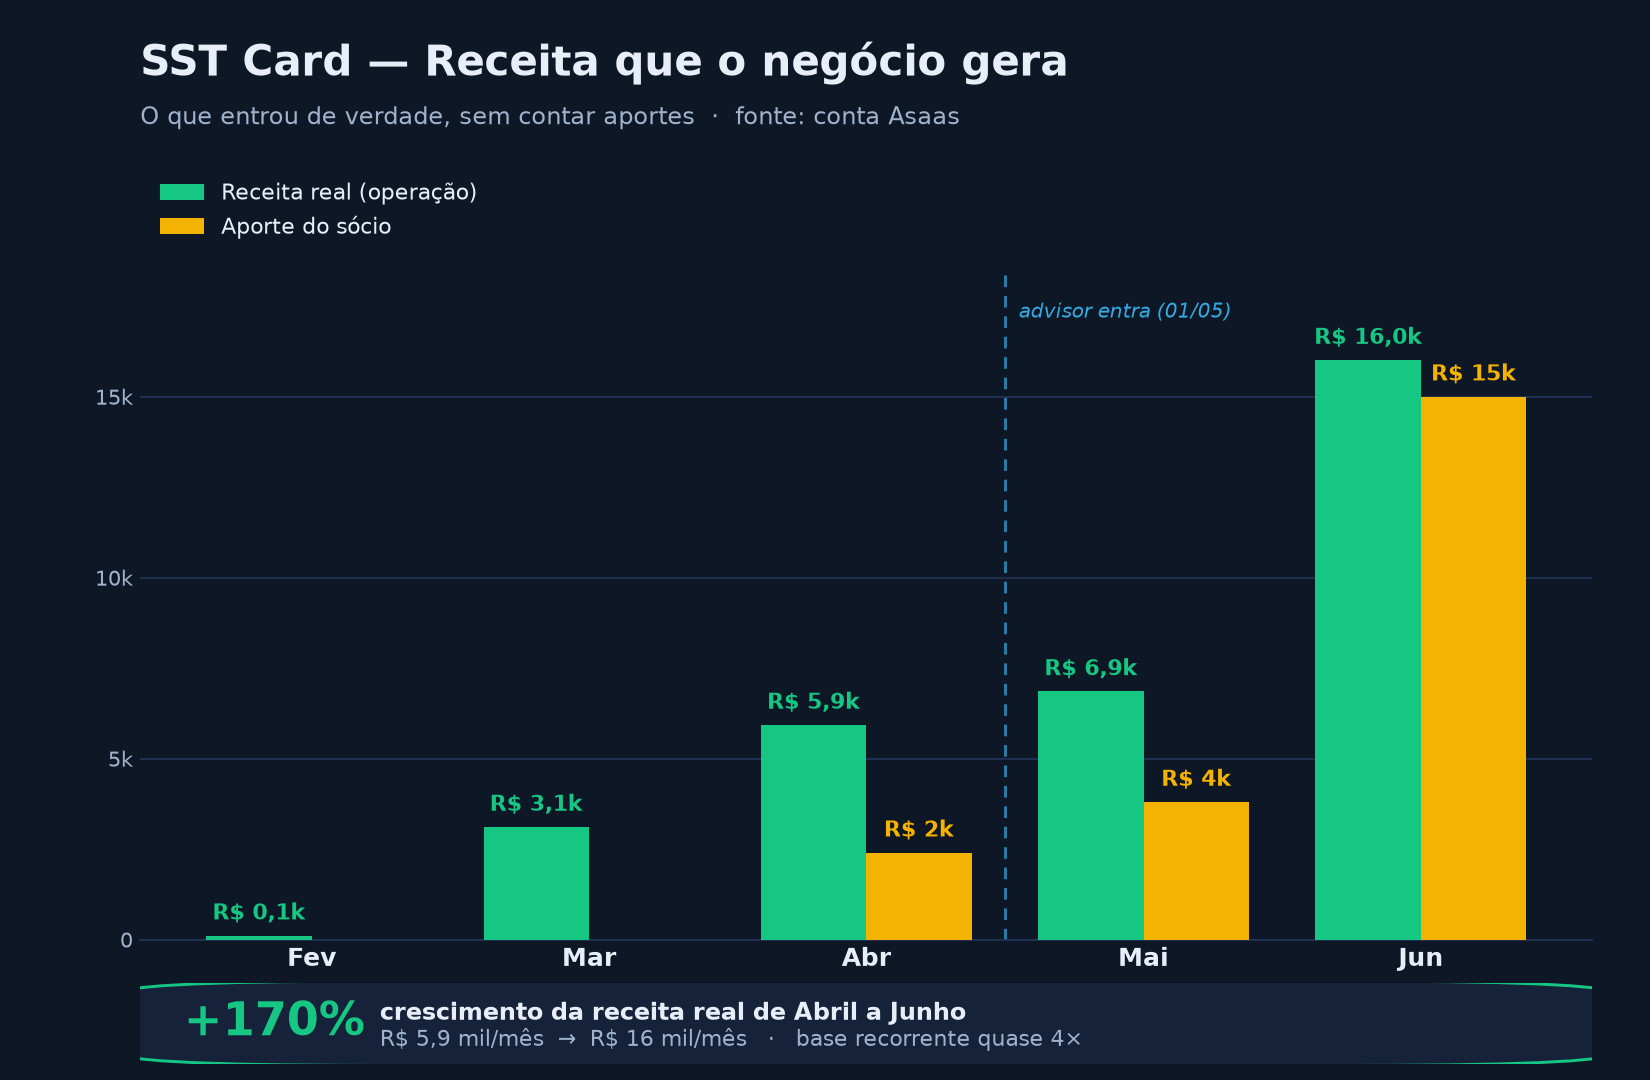
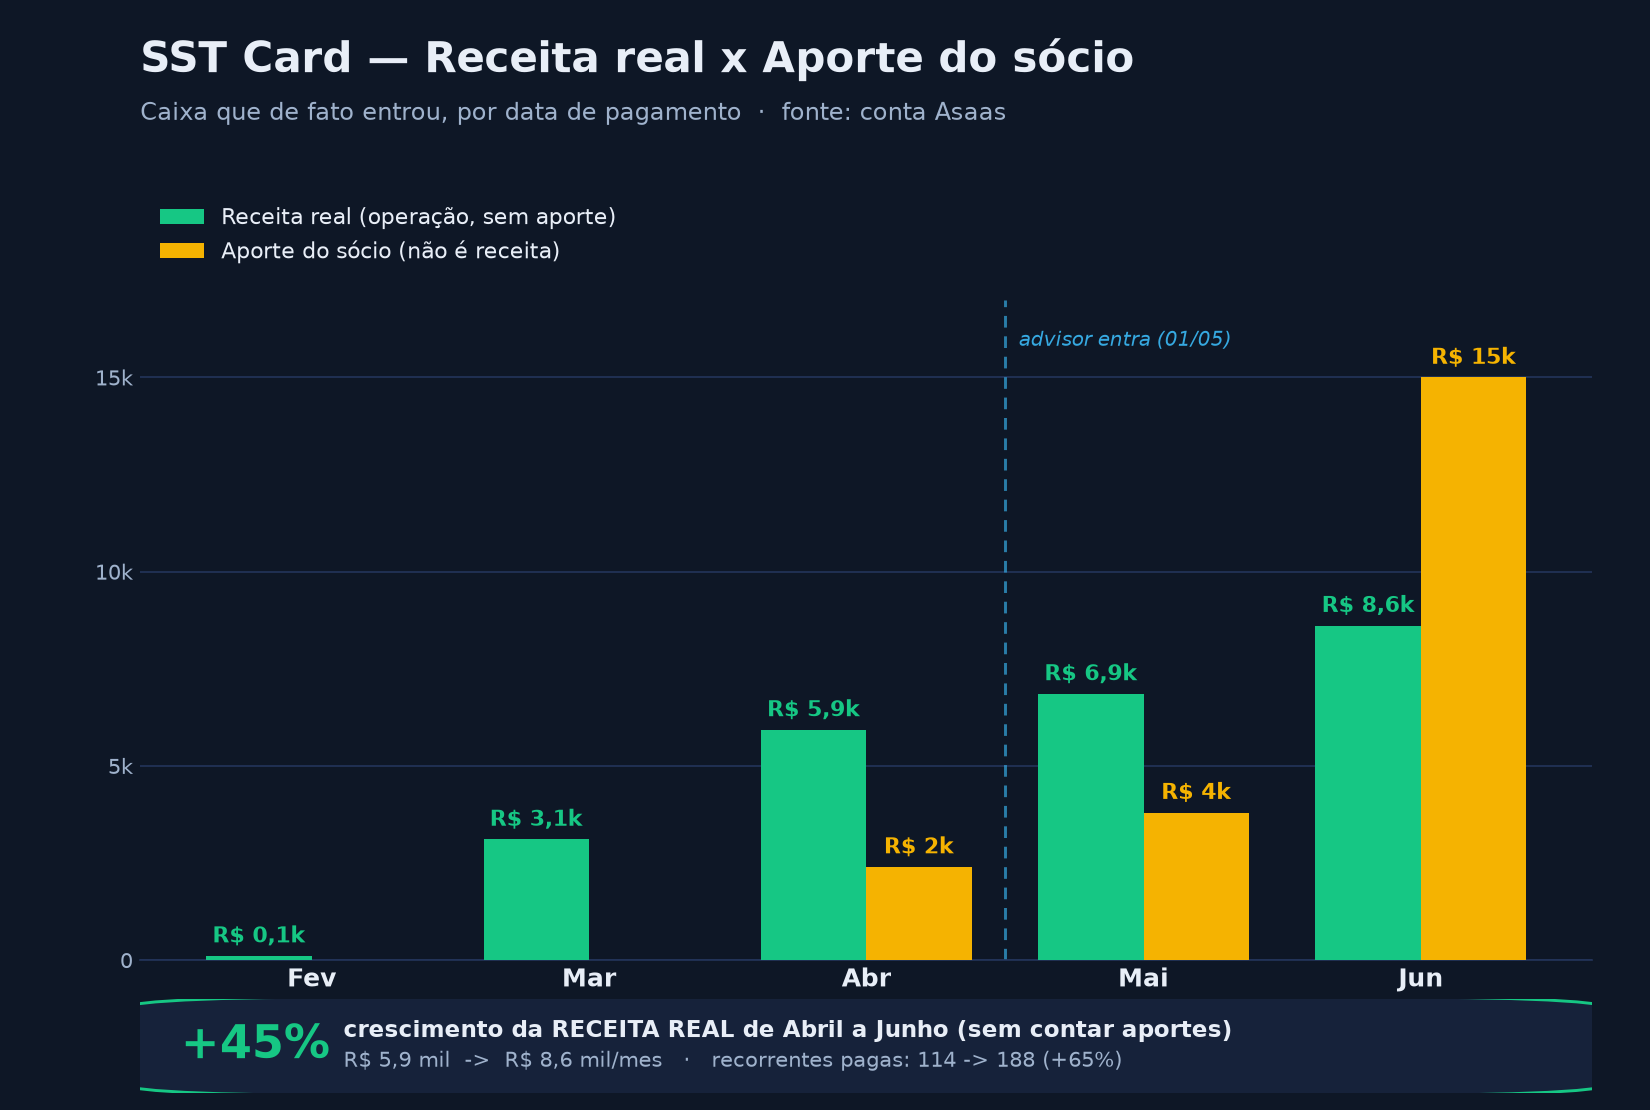
Corrige panorama financeiro: Jun real R$8,6k/+45% (nao R$16k/+170%)
Rogerio contestou por audio e estava certo. Recalculado por data de
pagamento sem aporte. Reconcilia com dashboard Asaas dele. Reajuste
revisado p/ 164 contratos (+R$29,5k/ano). Grafico PNG + RETOMADA tambem.

diff --git a/processo-comercial-7dias/panorama-receita-x-aporte-29-06-2026.html b/processo-comercial-7dias/panorama-receita-x-aporte-29-06-2026.html
@@ -93,7 +93,7 @@
     <div class="cards">
       <div class="kpi verde">
         <div class="lbl">Receita real (ano)</div>
-        <div class="val verde">R$ 32 mil</div>
+        <div class="val verde">R$ 24,6 mil</div>
         <div class="hint">venda de verdade, sem aportes</div>
       </div>
       <div class="kpi amarelo">
@@ -102,14 +102,14 @@
         <div class="hint">dinheiro do Rogério p/ caixa</div>
       </div>
       <div class="kpi azul" style="border:1px solid var(--linha)">
-        <div class="lbl">MRR contratado</div>
-        <div class="val azul">R$ 14,6 mil/mês</div>
-        <div class="hint">422 contratos recorrentes ativos</div>
+        <div class="lbl">MRR contratado (jun)</div>
+        <div class="val azul">R$ 13,9 mil/mês</div>
+        <div class="hint">327 recorrentes — só 178 pagaram</div>
       </div>
       <div class="kpi verde">
         <div class="lbl">Crescimento Abr → Jun</div>
-        <div class="val verde">+170%</div>
-        <div class="hint">receita real: R$ 5,9k → R$ 16k</div>
+        <div class="val verde">+45%</div>
+        <div class="hint">receita real: R$ 5,9k → R$ 8,6k</div>
       </div>
     </div>
   </section>
@@ -121,7 +121,7 @@
       <div class="chart-box"><canvas id="chartReceita"></canvas></div>
       <div class="legend-note">
         🟢 Receita real = o que o negócio gerou sozinho &nbsp;·&nbsp; 🟡 Aporte = dinheiro do Rogério para segurar o caixa.
-        Em junho, pela 1ª vez, a operação real (R$ 16k) <strong>superou o aporte mensal</strong>.
+        Em junho o aporte (R$ 15k) <strong>ainda foi maior que a operação real (R$ 8,6k)</strong> — é ele que segura o caixa hoje. Por isso o foco é fazer a receita real crescer até dispensar o aporte.
       </div>
     </div>
   </section>
@@ -145,10 +145,10 @@
           <tr><td>Mar</td><td class="num">2.037</td><td class="num">1.073</td><td class="num pos">3.110</td><td class="num mut">—</td></tr>
           <tr><td>Abr <span class="mut">(antes)</span></td><td class="num">4.405</td><td class="num">1.524</td><td class="num pos">5.929</td><td class="num">2.400</td></tr>
           <tr class="destaque"><td>Mai <span class="mut">· advisory entra</span></td><td class="num">5.239</td><td class="num">1.617</td><td class="num pos">6.856</td><td class="num">3.800</td></tr>
-          <tr class="destaque"><td>Jun</td><td class="num">13.095</td><td class="num">2.916</td><td class="num pos">16.010</td><td class="num">15.000</td></tr>
+          <tr class="destaque"><td>Jun</td><td class="num">6.601</td><td class="num">2.012</td><td class="num pos">8.613</td><td class="num">15.000</td></tr>
           <tr style="border-top:2px solid var(--azul)">
-            <td><strong>Total</strong></td><td class="num"><strong>24.845</strong></td><td class="num"><strong>7.168</strong></td>
-            <td class="num pos"><strong>32.013</strong></td><td class="num"><strong>21.200</strong></td>
+            <td><strong>Total</strong></td><td class="num"><strong>18.351</strong></td><td class="num"><strong>6.264</strong></td>
+            <td class="num pos"><strong>24.615</strong></td><td class="num"><strong>21.200</strong></td>
           </tr>
         </tbody>
       </table>
@@ -161,22 +161,22 @@
       <div>
         <h2><span class="num">3</span> Motor recorrente</h2>
         <div class="panel"><div class="chart-box sm"><canvas id="chartMRR"></canvas></div>
-        <div class="legend-note">Contratos recorrentes pagos por mês — quase 6× de mar a jun</div></div>
+        <div class="legend-note">Contratos recorrentes pagos por mês — 3× de mar a jun (62 → 188)</div></div>
       </div>
       <div>
-        <h2><span class="num">4</span> Foto Asaas hoje</h2>
+        <h2><span class="num">4</span> Foto Asaas — junho (bate com seu painel)</h2>
         <div class="panel" style="padding:8px 8px">
           <table>
             <thead><tr><th>Status</th><th class="num">Valor</th><th>É caixa?</th></tr></thead>
             <tbody>
-              <tr><td>🟢 Recebidas</td><td class="num">R$ 48.742</td><td class="pos">Já caiu</td></tr>
-              <tr><td>🔵 Confirmadas</td><td class="num">R$ 3.820</td><td class="mut">A caminho</td></tr>
-              <tr><td>🟡 Aguardando</td><td class="num">R$ 23.824</td><td class="neg">Promessa</td></tr>
-              <tr><td>🔴 Vencidas</td><td class="num">R$ 2.214</td><td class="neg">Inadimplência</td></tr>
+              <tr><td>🟢 Recebidas</td><td class="num">R$ 19.790</td><td class="pos">Já caiu</td></tr>
+              <tr><td>🔵 Confirmadas</td><td class="num">R$ 3.391</td><td class="mut">A caminho</td></tr>
+              <tr><td>🟡 Aguardando</td><td class="num">R$ 7.506</td><td class="neg">Promessa</td></tr>
+              <tr><td>🔴 Vencidas</td><td class="num">R$ 1.436</td><td class="neg">Inadimplência</td></tr>
             </tbody>
           </table>
           <p class="legend-note" style="text-align:left;padding:8px 12px">
-            ⚠️ "Aguardando" <strong>não é faturamento</strong> — é o que falta cobrar (alvo da Máquina de Cobrança).
+            ⚠️ Dos R$ 19.790 "Recebidas", <strong>R$ 15.000 é aporte</strong> (Maria Adélia). "Aguardando" não é faturamento — é o alvo da Máquina de Cobrança.
           </p>
         </div>
       </div>
@@ -187,13 +187,13 @@
   <section>
     <h2><span class="num">5</span> A decisão que destrava o caixa</h2>
     <div class="callout win">
-      <h3>📈 Migrar 294 contratos de R$ 24,90 → R$ 39,90 (reajuste já programado)</h3>
-      <span class="big-num">+ R$ 4.410/mês &nbsp;·&nbsp; + R$ 52.920/ano</span>
+      <h3>📈 Migrar os contratos de R$ 24,90 → R$ 39,90 (reajuste já programado)</h3>
+      <span class="big-num">+ R$ 2.460/mês &nbsp;·&nbsp; + R$ 29.520/ano</span>
       <ul>
-        <li><strong>294 clientes</strong> ainda pagam o preço antigo de R$ 24,90 (hoje R$ 7.321/mês).</li>
-        <li>No preço atual de R$ 39,90 viram <strong>R$ 11.731/mês</strong>.</li>
-        <li><strong>Blindagem:</strong> mesmo perdendo 20% no reajuste (59 cancelamentos), ainda sobra <strong>+R$ 2.056/mês</strong>. Risco assimétrico a favor.</li>
-        <li>Sozinha, essa decisão <strong>paga o advisory (R$ 30k) quase 2×</strong>.</li>
+        <li><strong>164 contratos recorrentes</strong> da base ativa ainda pagam o preço antigo de R$ 24,90 (hoje R$ 4.084/mês). <span class="mut">Pode haver mais fora do ciclo de junho — confirmar com Karine.</span></li>
+        <li>No preço atual de R$ 39,90 viram <strong>R$ 6.544/mês</strong>.</li>
+        <li><strong>Blindagem:</strong> mesmo perdendo 20% no reajuste (33 cancelamentos), ainda sobra <strong>+R$ 1.143/mês</strong>. Risco assimétrico a favor.</li>
+        <li>Sozinha, essa decisão gera <strong>quase o valor de um advisory inteiro (R$ 30k) por ano</strong> — e é o caminho mais rápido pra dispensar o aporte.</li>
       </ul>
     </div>
   </section>
@@ -204,10 +204,10 @@
     <div class="callout ask">
       <h3>❓ Para cravar o número limpo do RMAR de junho</h3>
       <ol>
-        <li><strong>Aportes (R$ 21,2k):</strong> os Pix de R$ 10k + R$ 5k (Maria Adélia) e R$ 2k + R$ 1,8k (seu nome) foram aporte de capital, certo?</li>
+        <li><strong>Aportes (R$ 21,2k):</strong> os Pix de R$ 10k + R$ 5k (Maria Adélia) e R$ 2k + R$ 1,8k (seu nome) foram aporte de capital, certo? <span class="mut">É isso que tirei da receita real — por isso o número honesto é R$ 8,6k e não R$ 16k.</span></li>
         <li><strong>Recepção:</strong> o dinheiro recebido presencialmente (espécie/maquininha) <strong>entra no Asaas</strong> ou fica fora? Se fica fora, o faturamento real é maior do que esse painel mostra.</li>
-        <li><strong>Outros repasses:</strong> teve algum aporte fora do Asaas que eu deva descontar da receita?</li>
-        <li><strong>Quitações da campanha:</strong> conta como receita do mês ou recuperação de caixa antigo?</li>
+        <li><strong>Inadimplência recorrente:</strong> dos 327 contratos recorrentes de junho, só 178 pagaram — <strong>R$ 7,9k/mês contratado não entrou</strong>. É o maior alvo da Máquina de Cobrança. Bate com o que você vê?</li>
+        <li><strong>Quitações da campanha:</strong> conta como receita do mês ou recuperação de caixa antigo (one-time)?</li>
       </ol>
     </div>
   </section>
@@ -215,9 +215,8 @@
   <!-- Ressalva -->
   <section>
     <div class="callout warn">
-      <strong>⚠️ Nota metodológica:</strong> consolidação de exports do Asaas tirados em dias diferentes — total ~R$ 53k vs ~R$ 51k do painel oficial.
-      A <strong>tendência mês a mês e a separação aporte/receita estão sólidas</strong>; o número fechado oficial é o do dashboard Asaas. Parte do salto de junho é one-time
-      (quitações + recorrentes atrasadas recuperadas) — não é MRR sustentável recorrente.
+      <strong>⚠️ Nota metodológica (revisado):</strong> a receita real é calculada <strong>por data de pagamento</strong> (caixa que de fato entrou) e <strong>sem os aportes</strong>. A "Foto Asaas" de junho bate com o seu painel (Recebidas R$ 19.790, Aguardando R$ 7.506 etc.).
+      O número honesto de junho é <strong>R$ 8,6k de receita real</strong> (não os R$ 16k de uma versão anterior, que ainda misturava o aporte). Crescimento real Abr→Jun = <strong>+45%</strong>. Parte do caixa de junho é one-time (quitações da campanha + recorrentes atrasadas recuperadas) — não é MRR sustentável.
     </div>
   </section>
 
@@ -236,7 +235,7 @@ Chart.defaults.font.family = "'Barlow','Segoe UI',sans-serif";
 new Chart(document.getElementById('chartReceita'), {
   type:'bar',
   data:{ labels:meses, datasets:[
-    { label:'Receita real (operação)', data:[108,3110,5929,6856,16010],
+    { label:'Receita real (operação)', data:[108,3110,5929,6856,8613],
       backgroundColor:'#16c784', borderRadius:6 },
     { label:'Aporte do sócio', data:[0,0,2400,3800,15000],
       backgroundColor:'#f5b301', borderRadius:6 }
@@ -251,7 +250,7 @@ new Chart(document.getElementById('chartReceita'), {
 new Chart(document.getElementById('chartMRR'), {
   type:'line',
   data:{ labels:['Mar','Abr','Mai','Jun'], datasets:[
-    { label:'Contratos recorrentes pagos', data:[62,114,149,361],
+    { label:'Contratos recorrentes pagos', data:[62,114,149,188],
       borderColor:'#36a9e1', backgroundColor:'rgba(54,169,225,.18)',
       fill:true, tension:.35, pointRadius:5, pointBackgroundColor:'#36a9e1', borderWidth:3 }
   ]},

diff --git a/RETOMADA.md b/RETOMADA.md
@@ -12,17 +12,20 @@ tags: [em-progresso]
 
 > Análise consolidada da conta Asaas (4 exports, dedup por Identificador) para mostrar ao Rogério o crescimento real desde o advisory (entrou 01/05). Detalhe na memória `analise_financeira_asaas_29-06-2026.md`.
 
-**🟢 A virada da narrativa (receita real × aporte):**
-- Separados os **R$ 21.200 de APORTE do sócio** (Maria Adélia R$10k+R$5k, Rogério R$2k+R$1,8k, SSF-Card R$2,4k) da receita de verdade.
-- **Receita real (sem aporte):** Abr R$ 5.929 → Mai R$ 6.856 → **Jun R$ 16.010 (+170%)**. Motor recorrente: 114 → 361 cobranças pagas. **MRR contratado ≈ R$ 14.579/mês** (422 contratos, ticket ~R$ 34,5).
-- **Junho foi o 1º mês em que a operação real superou o aporte mensal** — o negócio começa a andar com as próprias pernas.
+**⚠️ CORREÇÃO (29/06, fim do dia) — Rogério contestou por áudio e ESTAVA CERTO.** A 1ª versão dava Jun R$ 16.010 / +170%, que não bateu com o caixa real dele ("não tenho nem dinheiro pra pagar o seu e o meu amanhã"). Recalculado **por data de pagamento, sem aporte**: número honesto abaixo. Gráfico PNG, panorama HTML e memória já corrigidos.
 
-**📈 DECISÃO ESTRATÉGICA (maior alavanca disponível):** **294 contratos ainda em R$ 24,90** → migrar p/ **R$ 39,90** (reajuste já programado) = **+R$ 4.410/mês / +R$ 52.920/ano**. Blindagem: mesmo com 20% de churn, ainda +R$ 2.056/mês. Sozinha paga o advisory ~2×. **Aguarda GO/NO-GO do Rogério.**
+**🟢 A narrativa CORRIGIDA (receita real × aporte):**
+- Separados os **R$ 21.200 de APORTE do sócio** (Maria Adélia R$10k+R$5k, Rogério R$2k+R$1,8k, SSF-Card R$2,4k) da receita de verdade.
+- **Receita real (sem aporte, por data de pgto):** Abr R$ 5.929 → Mai R$ 6.856 → **Jun R$ 8.613 (+45%, não +170%)**. Motor recorrente PAGO: 114 → **188** cobranças (3×). **MRR contratado jun ≈ R$ 13.943** (327 recorrentes), mas **só 178 pagaram → R$ 7,9k/mês não entrou (46% inadimplência)** = maior alvo da Máquina de Cobrança.
+- **Em junho o aporte (R$ 15k) ainda foi MAIOR que a operação real (R$ 8,6k)** — é ele que segura o caixa. Foco: crescer a receita real até dispensar o aporte. Bate com a dor do Rogério.
+- **Reconciliação com o dashboard dele (junho/vencimento):** Recebidas R$ 19.790 ✓ · Confirmadas R$ 3.391 ✓ · Aguardando R$ 7.506 ✓ · Vencidas R$ 1.436 ✓.
+
+**📈 DECISÃO ESTRATÉGICA (número conservador):** **164 contratos recorrentes** da base ativa de junho ainda em R$ 24,90 (não 294) → migrar p/ **R$ 39,90** (reajuste já programado) = **+R$ 2.460/mês / +R$ 29.520/ano** (≈ 1 advisory/ano). Blindagem: mesmo com 20% churn, ainda +R$ 1.143/mês. Pode haver mais 24,90 fora do ciclo de junho — confirmar com Karine. **Aguarda GO/NO-GO do Rogério.**
 
 **❓ PENDÊNCIA a confirmar com Rogério (trava o número oficial do RMAR):**
-1. Aportes (R$ 21,2k) — confirmar que são repasse dele, não venda.
+1. Aportes (R$ 21,2k) — confirmar que são repasse dele, não venda. (É o que tirei → por isso jun real é R$ 8,6k, não R$ 16k.)
 2. **Dinheiro da recepção (espécie/maquininha) entra no Asaas ou fica fora?** Se fica fora, o faturamento real é maior. → virar processo (registrar toda venda presencial).
-3. Outros repasses fora do Asaas?
+3. Inadimplência recorrente: 327 contratos, só 178 pagaram — bate com o que ele vê? Rogério vai puxar extratos amanhã/quarta pra cravar o número.
 
 **Artefatos criados/deployados (29/06):**
 | Entregável | Arquivo | Estado |